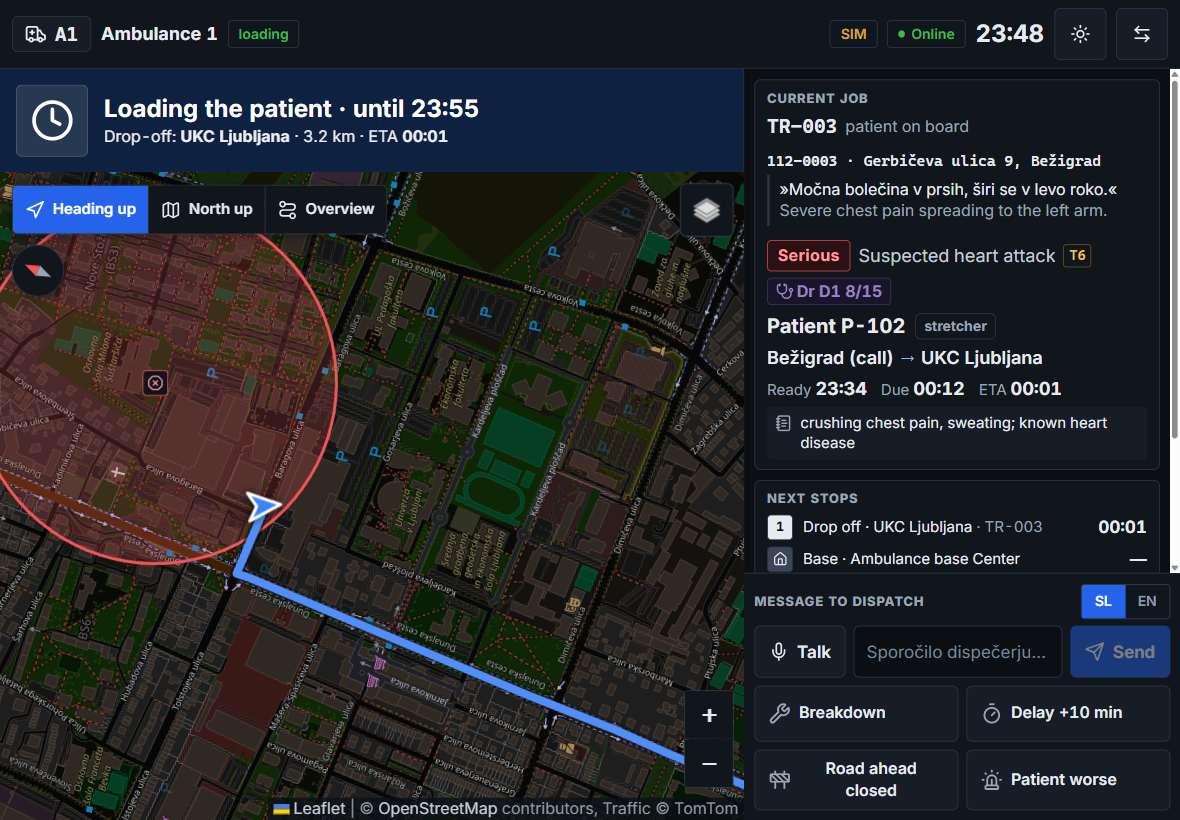
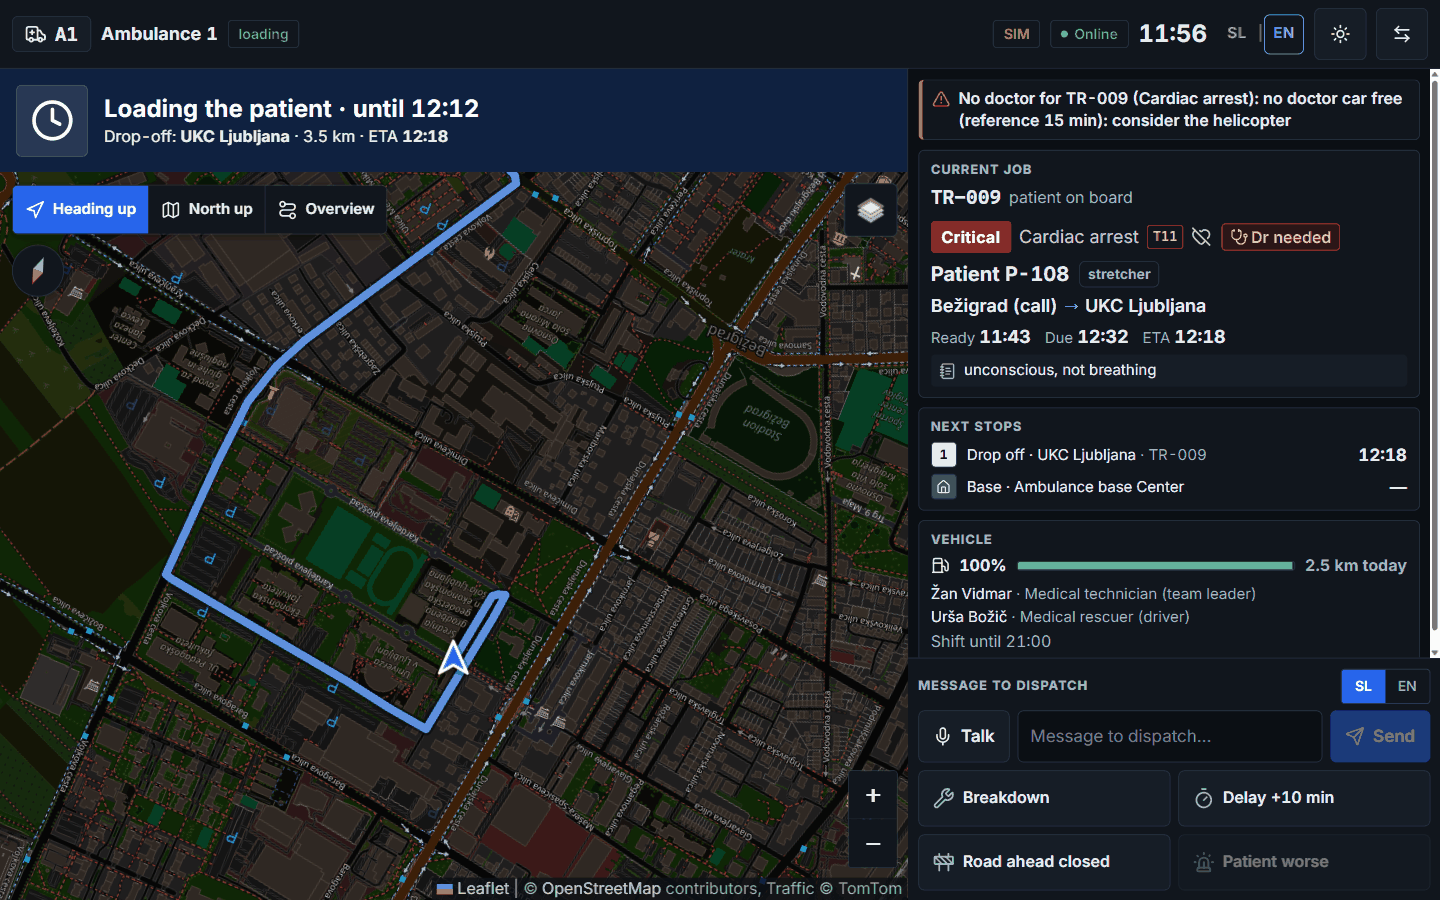
README: AI box, recalculation and dispatcher-choice rules, E/Random failure/Choose unit, optional lock, backend URL; re-capture five stale screenshots (and the Bypass dashboard-calls one) from the current UI
Claude-Session: https://claude.ai/code/session_01FBb643YhHHp33m4MCKsRx2

diff --git a/README.md b/README.md
@@ -12,7 +12,7 @@ It is built for a **fictional independent EMS operator, "Ljubljana Demo EMS"**. 
 
 The fleet, the crews and the 112 calls are **simulated** (synthetic, no real patient data). Weather, traffic, incidents and road routes come from real providers (with fallbacks), the same in both worlds. Details in [Limits and next steps](#limits-and-next-steps).
 
-**Live app:** [frontend-tau-rust-6kpoiztcvd.vercel.app](https://frontend-tau-rust-6kpoiztcvd.vercel.app/live) · [Demo script](DEMO.md) · [Pitch notes](docs/PITCH_NOTES.md) · [Architecture](#architecture) · [Run it](#run-it) · [Documentation index](#documentation-index)
+**Live app:** [frontend-tau-rust-6kpoiztcvd.vercel.app](https://frontend-tau-rust-6kpoiztcvd.vercel.app/live) · **API:** [ada-hackathon-production.up.railway.app](https://ada-hackathon-production.up.railway.app/docs) (`/docs`, `/health`) · [Demo script](DEMO.md) · [Pitch notes](docs/PITCH_NOTES.md) · [Architecture](#architecture) · [Run it](#run-it) · [Documentation index](#documentation-index)
 
 ## Judges: try it in 5 minutes
 
@@ -30,9 +30,9 @@ Tip: open the dispatcher and the ER board **side by side** (two windows), and th
 
 **Five steps (about 5 minutes)**
 
-1. **Start some calls.** Open the dispatcher at `/sim` → tab **Scenarios** → press **Surge** (seven calls at once, including a cardiac arrest). The simulation starts with the call stream paused, so nothing happens until you do this. A single call: **New 112 call**, or **Random call** (hotkey `R`).
-2. **See the AI dispatcher.** Tab **AI dispatcher**: every call is a case card with who classified it, which unit was sent and **why**, and who decided. Click a card to open its timeline. Press **Override** on a unit to see the ranked alternatives.
-3. **Break something.** **Random failure ▾ → Engine failure** (hotkey `X`). Watch the amber re-plan box, the unit swapping, and the unit's ETA change.
+1. **Start some calls.** Open the dispatcher at `/sim` → tab **Scenarios** → press **Surge** (seven calls at once, including a cardiac arrest). The Simulation world starts with its call stream off (header: "Call stream off"), so nothing happens until you do this. A single call: **New 112 call**, or **Random call** (hotkey `R`).
+2. **See the AI dispatcher.** Tab **AI dispatcher**: every call is a case card with who classified it, which unit was sent and **why**, and who decided. Click a card: a compact AI box shows the steps (*Classified* · *Dispatched, rules engine, under 0.1 s* · *Claude check*), then the decision with **Why** and Claude's verdict; the full timeline is below it. Press **Override** on a unit to see the ranked alternatives. Switch **Autonomous / Assisted** at the top of the tab.
+3. **Break something.** **Random failure ▾ → Engine failure** (hotkey `X`). Watch the amber **Disruption** box (*Impact +N min* → *Switched to A2* or *Recalculated: unit stays* → *Claude check*), the unit swapping and the ETA change. Also try **Random failure ▾ → Choose unit…** to hit a specific unit, or press `E` and click the map to place a 112 call yourself.
 4. **Open the ER board** (`/er/`). Every patient heading to UKC is a tile ordered by arrival time. Click a tile: live map of the ambulance, alerts, vitals with their age, and the reception actions (acknowledge, assign a bay, call a team).
 5. **Be the paramedic.** The ER tile shows which unit carries the patient (for example `A3`). Open `/crew/A3?world=sim`, tap **Enter vitals**, **Drug** or **Event**, or type a note in **Log**. Within about 2 seconds it shows on that patient's ER tile. Then press **Acknowledge** on the ER tile and watch the tablet change.
 
@@ -51,39 +51,37 @@ It adds triage, vitals every 5 world-minutes, a drug for emergencies, a cardiac 
 
 All screenshots show the Simulation world: synthetic calls, fictional crews, approximate coordinates.
 
-<!-- TODO(screenshots): dashboard-alerts.png, vehicle-card-timeline.png, tablet-navigation.png, tablet-helicopter.png and crew-phone.png were captured before the AI dispatcher tab and the lock chip; re-capture if time allows. The ER board, crew tablet, AI dispatcher, Scenarios and driver tablet images are current. -->
-
 <p align="center">
-  <img src="docs/images/dashboard-calls.png" alt="Dispatcher dashboard: a critical cardiac-arrest call as a case with its triage, dispatched unit, the caller's words in Slovenian and English, and the call timeline" width="900">
+  <img src="docs/images/dashboard-calls.png" alt="Dispatcher dashboard, AI dispatcher tab: two new calls as case cards (a critical cardiac arrest and a suspected heart attack) with who classified and who dispatched each, and the map popup of ambulance A1 with the reason it was sent" width="900">
 </p>
 
-**Dispatcher dashboard: every call as a case.** From the 112 call to the end: severity and condition, the unit sent and its arrival time, the caller's words (SL/EN), who classified it, and a timeline of who did what (caller, AI or rules, engine, dispatcher, crew).
+**Dispatcher dashboard: every call as a case.** From the 112 call to the end: severity and condition, the unit sent and its arrival time, who classified it (here the keyword rules, because this local capture had no Claude key; on the deployed app it is Claude), who dispatched it (rules engine), and a timeline of who did what (caller, AI or rules, engine, dispatcher, crew). Click a unit on the map for its popup with the reason it was sent and an **Override** button.
 
 <p align="center">
-  <img src="docs/images/dashboard-alerts.png" alt="Dispatcher dashboard, Alerts tab: red calls over the 15-minute reference with neighbouring-station suggestions, doctor cars and the helicopter on the map, event log with clinical reasons" width="900">
+  <img src="docs/images/dashboard-alerts.png" alt="Dispatcher dashboard, Alerts tab after a surge: red calls over the 15-minute reference with neighbouring-station suggestions, a high-demand alert with a button to activate contracted units, doctor-car and helicopter hints, and late trips" width="900">
 </p>
 
-**Alerts and event log under load.** Red calls predicted over the 15-minute reference ("ask a neighbouring station"), a doctor reaching a call late, the helicopter sent to a cardiac arrest, and the event log with the clinical reason for each decision.
+**Alerts under load.** After the Surge scenario: red calls predicted over the 15-minute reference ("ask a neighbouring station"), a high-demand alert with the button that activates contracted private units (the dispatcher's decision), "no doctor car free: consider the helicopter", and late trips. The event log with the clinical reason for each decision is below the alerts.
 
 <p align="center">
-  <img src="docs/images/vehicle-card-timeline.png" alt="Vehicle card for ambulance A1 responding to a suspected heart attack, with crew, next stops and the call timeline including doctor car D1" width="900">
+  <img src="docs/images/vehicle-card-timeline.png" alt="Vehicle popup for ambulance A1 responding to a critical cardiac arrest: the AI dispatcher's reason (diverted from a serious call to this critical one), Override, vehicle card, breakdown, crew and tablet buttons, beside the AI dispatcher tab" width="900">
 </p>
 
-**Vehicle card.** Click any vehicle: what it is responding to, its crew, fuel, next stops with ETAs, and the call timeline with the doctor car that was sent alongside.
+**Vehicle popup.** Click any vehicle on the map or in the strip: what it is responding to, **why the AI dispatcher sent it** (here: "Dispatched A1, diverted from TR-006 (serious) to this critical call"), an **Override** button, fuel, crew, and links to the vehicle card, the crew view and the tablet view.
 
 <table>
   <tr>
     <td width="42%" valign="top">
-      <img src="docs/images/tablet-navigation.png" alt="In-vehicle tablet for ambulance A1: current job with the caller's words, severity, doctor car, next stops, navigation map and quick reports">
-      <br><b>In-vehicle tablet.</b> Current job with the caller's words, next stops, map navigation (heading up, north up, overview), one-tap reports and a message to dispatch.
+      <img src="docs/images/tablet-navigation.png" alt="In-vehicle tablet for ambulance A1: an alert, current job with the caller's words, severity, next stops, crew, turn-by-turn navigation map and one-tap messages to dispatch">
+      <br><b>In-vehicle tablet.</b> Current job with the caller's words, alerts that touch this unit, next stops, map navigation (heading up, north up, overview), one-tap reports and a message to dispatch.
     </td>
     <td width="42%" valign="top">
-      <img src="docs/images/tablet-helicopter.png" alt="Tablet for helicopter H1 showing straight-line flight guidance to a skier at Krvavec">
-      <br><b>Helicopter H1.</b> Straight-line flight guidance (heading and distance) instead of road turns.
+      <img src="docs/images/tablet-helicopter.png" alt="Tablet for helicopter H1 showing straight-line flight guidance from the Brnik base to a hiker with a suspected spinal injury at Kamniška Bistrica">
+      <br><b>Helicopter H1.</b> Straight-line flight from the Brnik base to the patient (a hiker in the mountains) instead of road turns.
     </td>
     <td width="16%" valign="top">
-      <img src="docs/images/crew-phone.png" alt="Crew phone view: current job, hold to talk, Slovenian and English toggle, quick reports">
-      <br><b>Crew phone.</b> Hold to talk (SL/EN) or tap a quick report.
+      <img src="docs/images/crew-phone.png" alt="Crew phone view for transport van T1 carrying blood products: current job, next stop, log, hold to talk to dispatch with the Slovenian and English toggle">
+      <br><b>Crew phone.</b> The job, the next stop, hold to talk (SL/EN) or tap a quick report.
     </td>
   </tr>
 </table>
@@ -135,7 +133,7 @@ Promo, ads and four recorded walkthrough videos of the real UI are generated fro
 - **Constraints modelled:** vehicle capabilities (a van never takes an emergency, the helicopter never carries equipment or routine trips, doctor cars never transport), ready-at and due-by time windows, task priorities (four severity levels), several trips per vehicle (a queue per vehicle), pickup and delivery, and hospital admission capacity.
 - **Travel:** ambulances and vans on real road routes (OSRM, with TomTom as backup), adjusted for live traffic, weather and incidents; the helicopter in a straight line at **200 km/h**, after **13 minutes from the call to take-off** at its base (the HNMP average) and 2 to 3 minutes to land, **by day only** (new calls 08:00 to 16:30; at night it shows as unavailable): [docs/SERVICE_TIMES.md](docs/SERVICE_TIMES.md).
 - **Scheduled-day mode** (the brief's initial plan): the vans start with a pre-planned day of 24 synthetic booked trips and 4 equipment runs, placed greedily and then improved by a local search. The default seed starts with no late and no unassigned trips. Switch to it in the Simulation world's Scenarios tab, or with `POST /sim/admin/reset {"scheduled_day": true}`.
-- **Default mode is live calls:** there is no pre-planned day. Calls arrive about 5 per world-hour (`CALLS_PER_HOUR`; the Simulation world's clock runs 5× faster) and each is dispatched at once, which is closer to how emergency medical services work.
+- **Default mode is live calls:** there is no pre-planned day. Calls arrive about 5 per world-hour (`CALLS_PER_HOUR`; the Simulation world's clock runs 5× faster) and each is dispatched at once, which is closer to how emergency medical services work. The Live world's stream is on by default; the Simulation world's is off (`SIM_CALLS_ENABLED=0`): you start calls yourself or switch the stream on in the Scenarios tab.
 - **Crew availability** is shown (fictional crews and shifts on vehicle cards) but is **not yet a planning constraint**.
 
 ### Part 2: plan repair (*popravek plana*)
@@ -149,8 +147,8 @@ Every event below goes through one engine, is applied to the world's state and r
 | Urgent new task (*nova nujna naloga*) | A 112 call or a map click is dispatched at once by the doctrine below; a booking is placed on the van where it fits best. |
 | Reduced hospital capacity | Patients heading to a hospital that can admit fewer than are coming raise an alert. The most urgent keep their place; options redirect the rest to other general hospitals and state the cost. |
 | Patient priority change | A level change re-evaluates dispatch. Raised to emergency on a van: the van loses it and an ambulance is sent. |
-| Vehicle delays (*zamude*) | ETAs and knock-on delays are re-projected. For a 112 call, a free ambulance that is at least 3 minutes faster takes over. |
-| Road closures (*zaprte ceste*) | Vehicles are routed around the closure (orange on the map, TomTom routing with avoid areas). Without the detour service the route is kept with a slowdown. |
+| Vehicle delays (*zamude*) | ETAs and knock-on delays are re-projected. After **every** disruption the engine recalculates each 112 call it touched and says so on the timeline, also when nothing changes: a free ambulance at least 3 minutes sooner takes over, also from a unit the dispatcher chose when the disruption pushed that unit back by 3 minutes or more. |
+| Road closures (*zaprte ceste*) | Vehicles are routed around the closure (drawn along the blocked road on the map, like crashes and traffic jams; TomTom routing with avoid areas). Without the detour service the route is kept with a slowdown. |
 | Shortage of vehicles (*pomanjkanje vozil*) | A high-demand alert and options: a neighbouring station's ambulance (M1), a private ambulance (P1), or contracted surge capacity, and an honest statement of who waits. |
 
 ### Part 3: the Slovenian AI assistant
@@ -159,7 +157,7 @@ A crew member speaks or types, for example *"Vozilo je obstalo. Oprema je še v 
 
 ### Main features
 
-- **AI dispatcher tab** (the dashboard's first tab). Every call is a case card: the caller's words in Slovenian and English, who classified it (Claude, keyword rules or the dispatcher), the unit that was sent with **a one-line reason per unit** ("nearest free ambulance", "available soon: finishes at UKC, 12 min sooner than A2", "doctor needed for cardiac arrest: first doctor car on scene"; the arrival time next to it is the live one) and **who decided each step**, and a timeline. A switch sets the mode: **Autonomous** (Claude's recommendation is applied after the engine re-checks it) or **Assisted** (the default: a proposal to approve). **Override** lists every other unit ranked by the engine with its arrival time and cost ("free", "diverts TR-003, which then waits 12 min longer", "private ambulance"), and **Add unit** adds a doctor car, a further ambulance or the helicopter. A unit the dispatcher chose by hand sticks: the engine's follow-up and the AI do not change it, and the engine does not divert it to a higher-level call (it says so: "A1 not diverted: assigned by the dispatcher to TR-003 (Override to divert)"). Details: [docs/DISPATCH_PRIORITIES.md](docs/DISPATCH_PRIORITIES.md) section 8.
+- **AI dispatcher tab** (the dashboard's first tab). Every call is a case card: the caller's words in Slovenian and English, who classified it (Claude, keyword rules or the dispatcher), the unit that was sent with **a one-line reason per unit** ("nearest free ambulance", "available soon: finishes at UKC, 12 min sooner than A2", "doctor needed for cardiac arrest: first doctor car on scene"; the arrival time next to it is the live one) and **who decided each step**, and a timeline. A switch sets the mode: **Autonomous** (Claude's recommendation is applied after the engine re-checks it) or **Assisted** (the default: a proposal to approve). **Override** lists every other unit ranked by the engine with its arrival time and cost ("free", "diverts TR-003, which then waits 12 min longer", "private ambulance"), and **Add unit** adds a doctor car, a further ambulance or the helicopter. A unit the dispatcher chose by hand sticks: the AI does not change it, and the engine does not divert it to a higher-level call (it says so: "A1 not diverted: assigned by the dispatcher to TR-003 (Override to divert)"). The one exception is a disruption that holds that unit up by 3 minutes or more: a free ambulance at least 3 minutes sooner then takes over, and the timeline says "A1 was the dispatcher's choice but is held up". Details: [docs/DISPATCH_PRIORITIES.md](docs/DISPATCH_PRIORITIES.md) section 8.
 - **Live calls and 112 intake.** A call-taker types or dictates the call (address, known place or map point). Claude triages it into a severity, a condition, case modifiers, a doctor flag and a one-sentence clinical reason; keyword rules take over when Claude is off, limited or slow. The call then follows the normal dispatch path and gets a timeline.
 - **Severity levels and dispatch doctrine.** Critical, serious, urgent, routine, with 14 conditions weighted by time sensitivity (cardiac arrest 10, stroke and heart attack 6, ...) and response targets (critical 8 min in the city / 15 outside, serious 18, urgent 60). The engine sends the closest suitable unit by true arrival time (including one finishing a drop-off nearby), may divert a unit from a lower-level call when the saving is clear, evaluates the helicopter for every red call, and judges stroke and heart attack by arrival at UKC. A red call predicted over 15 minutes raises an alert. Rules and sources: [docs/DISPATCH_PRIORITIES.md](docs/DISPATCH_PRIORITIES.md).
 - **Doctor cars.** For red calls that need a doctor, a doctor car (VUZ: physician and nurse) joins the ambulance crew on scene; the helicopter carries a doctor.
@@ -168,13 +166,13 @@ A crew member speaks or types, for example *"Vozilo je obstalo. Oprema je še v 
 - **Helicopter H1** as the real service runs it: based at Brnik, 13 minutes from the call to take-off, 08:00–16:30 only (greyed out with "Unavailable at night until 08:00" otherwise), straight-line flight, fog grounding. In practice it serves remote calls, and city calls only when every ambulance is busy.
 - **Reports** (`/reports`): operational statistics per world over the last 1, 3 or 8 world-hours: response time against the target by severity, calls within target, doctor on scene within 15 minutes, late transports, unit utilisation, and who decided (rules engine, Claude, dispatcher override). `GET /{world}/reports`.
 - **Slovenian and English everywhere.** A switch in every header. The dashboard defaults to English, the crew phone and the tablet to Slovenian; `?lang=sl` or `?lang=en` in the address sets it for that device.
-- **Demo lock.** With `ADMIN_KEY` set, only devices that carry the key (opened once with `?key=`) can reset, inject, approve, override or spend AI tokens; everyone else sees a read-only dashboard. A shared demo key, not a login: [docs/RELIABILITY_AND_SECURITY.md](docs/RELIABILITY_AND_SECURITY.md).
+- **Demo lock (optional).** With `ADMIN_KEY` set, only devices that carry the key (opened once with `?key=`) can reset, inject, approve, override or spend AI tokens; everyone else sees a read-only dashboard. **The deployed backend currently runs without a key: the app is open to everyone and no lock chip is shown.** A shared demo key, not a login: [docs/RELIABILITY_AND_SECURITY.md](docs/RELIABILITY_AND_SECURITY.md).
 - **In-vehicle tablet** (`/vehicle/:id`): turn-by-turn navigation, current job, next stops, one-tap reports without AI, and messages from dispatch when the plan changes.
 - **Crew tablet and phone** (`/crew/:id`): push-to-talk in Slovenian or English (browser speech recognition), typed text, quick reports 1–5. The same page also carries the patient-compartment clinical log: tap pads for vitals, drugs and events, timers, the ETA to the ER and a 15-minute handover screen (design: [docs/superpowers/specs/2026-11-21-crew-patient-tablet-design.md](docs/superpowers/specs/2026-11-21-crew-patient-tablet-design.md)).
 - **ER inbound board** (`er-dashboard/`, served by the frontend at `/er/`): a separate screen for ER reception. One tile per patient on the way, ordered by arrival time, with the crew's clinical log, alerts, and reception actions (acknowledge, assign a bay, call a team). It reads the backend's `clinical` module (`GET /{world}/er/board`); data contract: [docs/superpowers/specs/2026-11-22-er-dashboard-api-contract.md](docs/superpowers/specs/2026-11-22-er-dashboard-api-contract.md), details: [er-dashboard/README.md](er-dashboard/README.md). All patient data is synthetic.
 - **Audit log:** every event, 112 call, crew message, interpreted event, AI recommendation, dispatcher decision and override, stored in PostgreSQL (memory only without `DATABASE_URL`), filterable on the Audit page and exportable as JSON lines.
 - **Live and Simulation worlds** (below), a status bar showing each data source as fresh, stale or down, a switchable base map and TomTom traffic layer, and keyboard shortcuts (press `?`).
-- **Demo tools (Simulation only):** 12 one-click scenarios, "Random call" (`R`) and "Random failure" (`X`) buttons, a call-stream switch, an AI-triage switch.
+- **Demo tools (Simulation only):** 12 one-click scenarios; **Random call** (`R`); **`E` + a click on the map**, which creates a real 112 call from the call library (picked condition and level) at that point; **Random failure** (`X`: crash, closure, traffic jam, fog, breakdown, delay, hospital capacity, equipment) and **Choose unit…** to aim a failure at one unit; a call-stream switch; an AI-triage switch.
 
 **Live vs Simulation.** Both worlds share the real weather, traffic and incident feeds. **Live** runs on the real clock and accepts only real operator reports. **Simulation** is the presentation sandbox: a 5× clock, hypothetical weather such as a snowstorm, demo scenarios and reset. In both, the fleet and the calls are generated by the simulator, which stands in for the vehicle GPS feed and the call centre.
 
@@ -275,7 +273,7 @@ Speech needs Chrome or Edge, HTTPS and a microphone permission. Without it, type
 
 - **It computes no numbers.** Every ETA, delay and late-trip count comes from the deterministic engine. Each option is re-simulated by the engine before the dispatcher sees it.
 - **It changes nothing directly.** The AI has read-only tools and a what-if simulator. Applying an option replays exactly the steps that were shown, re-checks them against the current situation, and is refused with the reason if the situation has changed for the worse.
-- **It does not override the dispatcher.** A unit the dispatcher assigned by hand is not changed by the AI or by the engine's follow-up. The dispatcher approves (`Y`) or rejects (`N`) proposals, and can replace any unit at any time. The engine itself acts without asking only at the moment of dispatch (closest unit, a clearly justified override, the helicopter) and in the automatic follow-up of 112 calls (re-dispatch when a unit drops out, a clearly faster free unit, a missing doctor car). Trade-offs such as swaps between same-level calls, reserve units, contracted surge capacity, and the plans for non-call work stay with the dispatcher, in either mode.
+- **It does not override the dispatcher.** A unit the dispatcher assigned by hand is not changed by the AI, and by the engine's follow-up only when a disruption holds that unit up by 3 minutes or more and a free ambulance is at least 3 minutes sooner. The dispatcher approves (`Y`) or rejects (`N`) proposals, and can replace any unit at any time. The engine itself acts without asking only at the moment of dispatch (closest unit, a clearly justified override, the helicopter) and in the automatic follow-up of 112 calls (re-dispatch when a unit drops out, a recalculation after every disruption, a free unit at least 3 minutes sooner, a missing doctor car). Trade-offs such as swaps between same-level calls, reserve units, contracted surge capacity, and the plans for non-call work stay with the dispatcher, in either mode.
 
 **When Claude is unavailable** (no key, error, refusal, timeout, or usage limit):
 
